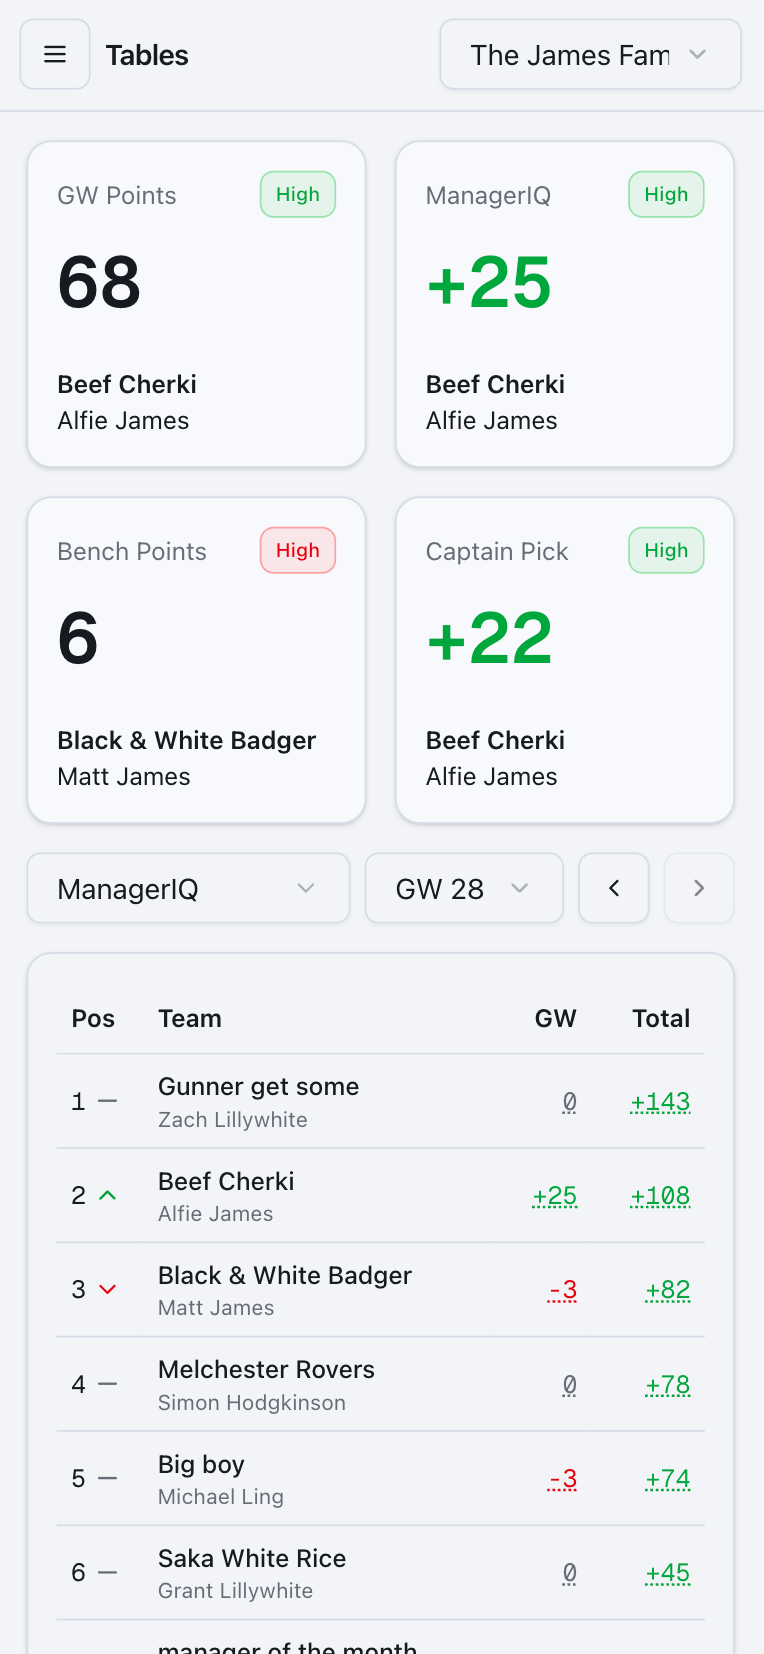
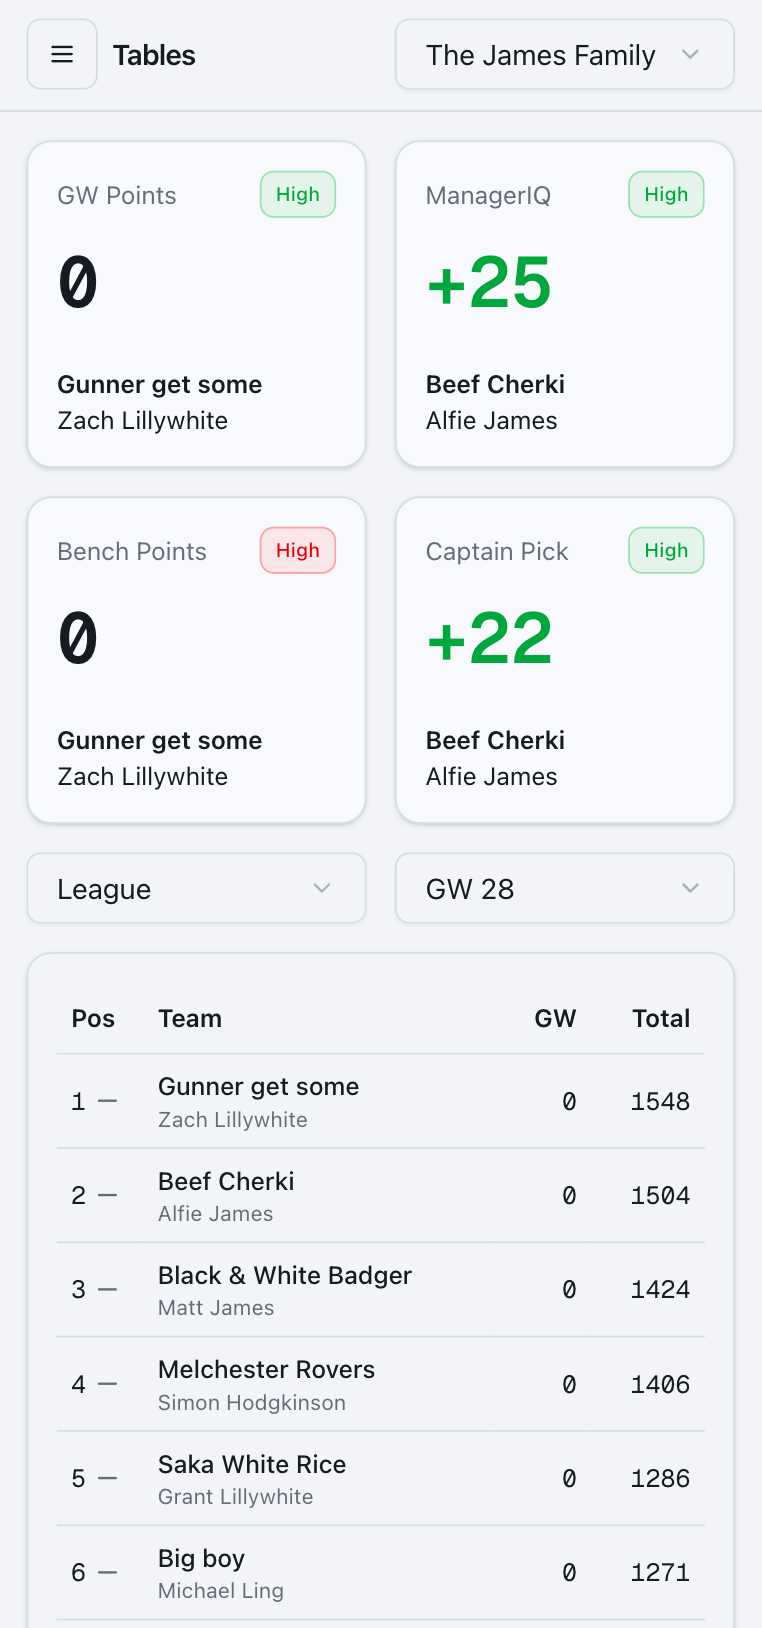
Optimize mobile portrait header and tab row layout

diff --git a/src/app/(dashboard)/[leagueID]/DashboardClient.tsx b/src/app/(dashboard)/[leagueID]/DashboardClient.tsx
@@ -29,6 +29,7 @@ import {
   LEAGUEIQ_VIEW_BY_KEY,
   LeagueIQView,
 } from "@/lib/leagueiqRoutes";
+import { cn } from "@/lib/utils";
 import { EnrichedStanding } from "@/types/fpl";
 
 const fetcher = async (url: string) => {
@@ -170,6 +171,7 @@ export default function DashboardClient({
   const { useDrawerNav, mobileSidebarOpen, setMobileSidebarOpen } = useAppShellNavigation();
   const [showOrientationHint, setShowOrientationHint] = React.useState(false);
   const [showSwipeHint, setShowSwipeHint] = React.useState(false);
+  const [isPortraitOrientation, setIsPortraitOrientation] = React.useState(false);
   const [swipeGwFeedback, setSwipeGwFeedback] = React.useState<{
     fromGw: number;
     toGw: number;
@@ -645,10 +647,28 @@ export default function DashboardClient({
         size={useDrawerNav ? "default" : "sm"}
         className="sm:h-8 sm:text-sm"
         touchMode={useDrawerNav}
+        showArrows={!(useDrawerNav && isPortraitOrientation)}
       />
     ),
-    [currentGw, maxGw, selectedLeagueId, useDrawerNav]
+    [currentGw, isPortraitOrientation, maxGw, selectedLeagueId, useDrawerNav]
   );
+
+  React.useEffect(() => {
+    if (typeof window === "undefined") return;
+
+    const evaluateOrientation = () => {
+      setIsPortraitOrientation(window.matchMedia("(orientation: portrait)").matches);
+    };
+
+    evaluateOrientation();
+    window.addEventListener("resize", evaluateOrientation);
+    window.addEventListener("orientationchange", evaluateOrientation);
+
+    return () => {
+      window.removeEventListener("resize", evaluateOrientation);
+      window.removeEventListener("orientationchange", evaluateOrientation);
+    };
+  }, []);
 
   return (
     <AppShell
@@ -706,7 +726,12 @@ export default function DashboardClient({
             leagues={leagues}
             selectedLeagueId={selectedLeagueId}
             currentGw={currentGw}
-            className="w-[170px] sm:h-8 sm:w-[220px] sm:text-sm"
+            className={cn(
+              "sm:h-8 sm:w-[220px] sm:text-sm",
+              useDrawerNav && isPortraitOrientation
+                ? "w-[calc((100vw-3rem)/2)]"
+                : "w-[170px]"
+            )}
             touchMode={useDrawerNav}
           />
         </>
@@ -736,6 +761,7 @@ export default function DashboardClient({
         options={tabOptions}
         rightSlot={gameweekSelectorControl}
         touchMode={useDrawerNav}
+        mobileSplit={useDrawerNav && isPortraitOrientation}
       />
 
       {showSwipeHint ? (

diff --git a/src/components/common/DashboardTabRow.tsx b/src/components/common/DashboardTabRow.tsx
@@ -22,6 +22,7 @@ interface DashboardTabRowProps {
   options: DashboardTabOption[];
   rightSlot?: React.ReactNode;
   touchMode?: boolean;
+  mobileSplit?: boolean;
 }
 
 export function DashboardTabRow({
@@ -30,11 +31,12 @@ export function DashboardTabRow({
   options,
   rightSlot,
   touchMode = false,
+  mobileSplit = false,
 }: DashboardTabRowProps) {
   return (
     <>
-      <div className="flex w-full items-center gap-2 sm:hidden">
-        <div className="min-w-0 flex-1">
+      <div className={cn("flex w-full items-center gap-2 sm:hidden", mobileSplit && "gap-4")}>
+        <div className={cn("min-w-0 flex-1", mobileSplit && "basis-1/2")}>
           <Select value={value} onValueChange={onValueChange}>
             <SelectTrigger
               size={touchMode ? "default" : "sm"}
@@ -56,7 +58,9 @@ export function DashboardTabRow({
             </SelectContent>
           </Select>
         </div>
-        {rightSlot}
+        {rightSlot ? (
+          <div className={cn(mobileSplit && "min-w-0 flex-1 basis-1/2")}>{rightSlot}</div>
+        ) : null}
       </div>
 
       <div className="hidden w-full items-center justify-between gap-3 sm:flex">

diff --git a/src/components/common/AppShell.tsx b/src/components/common/AppShell.tsx
@@ -94,7 +94,7 @@ export function AppShell({
           !useDrawerNav && "sm:h-svh sm:min-h-0 sm:overflow-hidden"
         )}
       >
-        <header className="sticky top-0 z-30 flex h-16 items-center justify-between border-b border-border bg-background/95 px-3 backdrop-blur sm:px-4">
+        <header className="sticky top-0 z-30 flex h-16 items-center justify-between border-b border-border bg-background/95 px-4 backdrop-blur sm:px-4">
           <div className="flex min-w-0 items-center gap-2">
             <button
               type="button"
